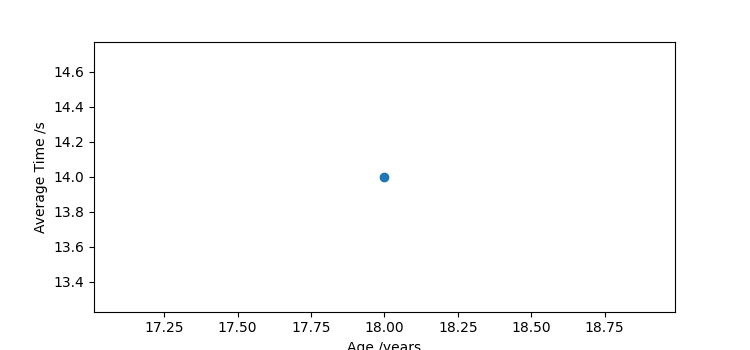
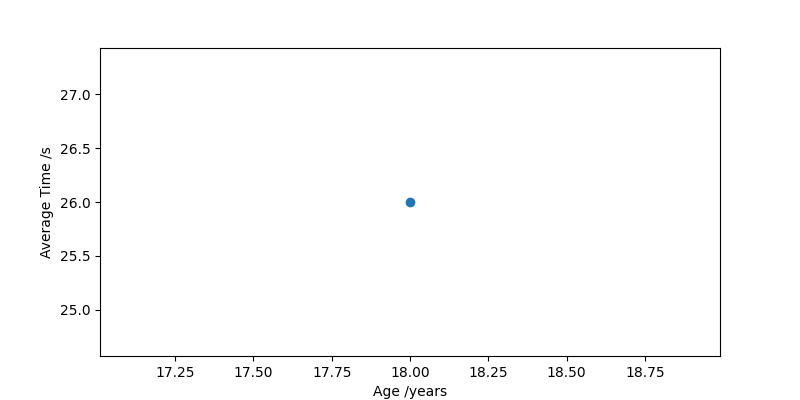
Fully Finished Project with one database profile left in.

diff --git a/Scatter.py b/Scatter.py
@@ -12,6 +12,7 @@ from settings import *
 pg.init()
 pg.display.set_caption('Memory Processing Tool')
 display = pg.display.set_mode((RES))
+image_surface = pg.display.set_mode((800, 400))
 background = pg.Surface((RES))
 display.fill((STAND_BACK_COL))
 
@@ -29,11 +30,13 @@ class Graph:
         self.results_output = 0
         self.age = []
         self.time = []
+        self.scatter_image = pg.image.load('Images\\age_time.png')
+        image_surface.blit(self.scatter_image, (0, 0))
         
         # ------GUI:------
         # Panels: 
         self.graph_panel = pg_gui.elements.UIPanel(
-            pg.Rect((10, 10), (790, 380)), 
+            pg.Rect((10, 10), (780, 380)), 
             1, 
             manager,
             object_id = ObjectID(
@@ -42,7 +45,7 @@ class Graph:
                 )
             )
         self.panel = pg_gui.elements.UIPanel(
-            pg.Rect((10, 400), (790, 380)), 
+            pg.Rect((10, 400), (780, 380)), 
             1, 
             manager,
             object_id = ObjectID(
@@ -65,20 +68,19 @@ class Graph:
             self.panel
             )
         self.quit_but.hide()
-        self.image_but = pg_gui.elements.UIButton(
-            pg.Rect((0, 0), (790, 380)), 
-            '', 
-            manager, 
-            self.graph_panel,
-            object_id = ObjectID(
-                object_id = '#image_but'
-                )
-            )
+
+        # Images:
+        self.image = pg_gui.elements.UIImage(
+            pg.Rect((0, 0), (770, 380)),
+            image_surface,
+            manager,
+            container = self.graph_panel
+        )
         
         # Text Boxes:
         self.scatter_text_box = pg_gui.elements.UITextBox(
             TEXT_ARRAY[4], 
-            pg.Rect((10, 140), (760, 220)), 
+            pg.Rect((10, 140), (750, 220)), 
             manager, 
             starting_height = 1, 
             container = self.panel, 
@@ -118,11 +120,11 @@ class Graph:
             self.text = "Very Low Risk, High Processing Speed"
             self.results_output = 0
             pg_gui.elements.UILabel.set_text(self.age_time_label, self.text) # The label is changed for the user to read depending on thier results.
-        if time_quantiles[1] <= user_avg_time < time_quantiles[2]:
+        elif time_quantiles[1] <= user_avg_time < time_quantiles[2]:
             self.text = "Low Risk, Average Processing Speed"
             self.results_output = 1
             pg_gui.elements.UILabel.set_text(self.age_time_label, self.text)
-        if time_quantiles[2] <= user_avg_time < time_quantiles[3]:
+        elif time_quantiles[2] <= user_avg_time < time_quantiles[3]:
             self.text = "Slow Processing Speed, "
             if age_quantiles[2] <= user_age <= age_quantiles[4]:
                 self.text = self.text + "Average Risk"
@@ -131,11 +133,13 @@ class Graph:
                 self.text = self.text + "Low Risk"
                 self.results_output = 3
             pg_gui.elements.UILabel.set_text(self.age_time_label, self.text)
-        if time_quantiles[3] <= user_avg_time < time_quantiles[4]:
+        else:
             self.text = "Very Slow Processing Speed, "
             if age_quantiles[2] <= user_age <= age_quantiles[4]:
                 self.text = self.text + "High Risk"
                 self.results_output = 4
+            elif user_age > age_quantiles[4]:
+                self.text = self.text + "High Risk"
             else:
                 self.text = self.text + "Above Average Risk"
                 self.results_output = 5
@@ -148,10 +152,16 @@ class Graph:
         plt.xlabel("Age /years")
         plt.ylabel("Average Time /s")
         scatter = plt.gcf()
-        scatter.set_size_inches(7.5, 3.5)
+        scatter.set_size_inches(8, 4)
         plt.savefig(('Images/{}'.format(name)), dpi = 100)
         plt.close()
    
+    def display_image(self):
+        self.scatter_image = pg.image.load('Images\\age_time.png')
+        image_surface.blit(self.scatter_image, (0, 0))
+        self.image.set_image(self.scatter_image)
+        pg.display.flip()
+
     def but_pressed(self, but): # Function: Checks if a specific button has been pressed and does the following action if one has.
         if but == self.start_but:
             self.run() # Runs the function run() which will plot and save a graph as well as giving the user a prompt on-screen depending on thier performance.
@@ -166,6 +176,7 @@ class Graph:
     def run(self): # Function: Runs the functions time_age() and plot() when active.
         self.time_age()
         self.plot()
+        self.display_image()
     
 but = Graph()
 

diff --git a/Login_and_Register.py b/Login_and_Register.py
@@ -144,7 +144,7 @@ class Login:
             )
         self.text = ""
         self.error_Label = pg_gui.elements.UILabel(
-            pg.Rect((140, 550), (500, 50)), 
+            pg.Rect((0, 600), (780, 50)), 
             self.text, 
             manager,
             container = self.reg_panel, 
@@ -234,22 +234,36 @@ class Login:
                 self.age = 131
             
     def but(self, process): # Checks if a button is pressed and carries out the appropriate response.
-        if process == self.reg_but: # Registers user information to the database if the appropriate conditions are met then: Starts the Maze game loop (Main.py); Starts Scatter graph file (Scatter.py)
+        if process == self.reg_but: # Registers user information to the database if error value remains false: Starts the Maze game loop (Main.py); Starts Scatter graph file (Scatter.py)
             self.text = ""
-            if self.reg_username not in self.DB_username:
-                if (" " not in self.reg_username) and (" " not in self.reg_password):
-                    if self.age <= 130:
-                        self.username = self.reg_username
-                        self.password = self.reg_password
-                        self.reg_disabled = True
-                        self.reg_panel.hide()
-                        self.preview_panel.show()
-                    else:
-                        self.text = "Age too large or is not a number"
-                else:
-                    self.text = "Spaces found in username or password."
+            text = ""
+            check_array = []
+            error = False
+            if self.reg_username in self.DB_username:
+                check_array.append("Username already in use.")
+                error = True
+            if (len(self.reg_username) > 30) or (len(self.reg_password) > 30):
+                check_array.append("Username or password longer than 30 characters.")
+                error = True  
+            if (" " in self.reg_username) or (" " in self.reg_password):
+                check_array.append("Spaces found in username or password.")
+                error = True  
+            if not self.age <= 130:
+                check_array.append("Age too large or is not a number")
+                error = True
+
+            if error == True:
+                for errors in check_array:
+                    text += (errors + " ")
+                self.text = text
             else:
-                self.text = "Username already in use."
+                text = ""
+                self.text = text
+                self.username = self.reg_username
+                self.password = self.reg_password
+                self.reg_disabled = True
+                self.reg_panel.hide()
+                self.preview_panel.show()
             pg_gui.elements.UILabel.set_text(self.error_Label, self.text)
         if process == self.preview_but:
             if self.reg_disabled == True:
@@ -304,7 +318,7 @@ class Login:
 
     def reg(self, connection): # Function: runs a database.py function add_user() to submit the username, password and age values into the database as a new user.
         null = 0
-        Database.add_user(self.connection, self.username, self.password, self.age, null, null, null, null, null)
+        Database.add_user(self.connection, self.username, self.password, self.age, null, null, null, null)
     
 process = Login(connection)
 

diff --git a/Database.py b/Database.py
@@ -1,9 +1,9 @@
 import sqlite3
 
 # ------SQL Queries:------
-CREATE_USER_TABLE = "CREATE TABLE IF NOT EXISTS users (id INTEGER PRIMARY KEY, username TEXT, password TEXT, age INTEGER, t_1 INTEGER, t_2 INTEGER, t_3 INTEGER, t_avg INTEGER, condition INTEGER);"
+CREATE_USER_TABLE = "CREATE TABLE IF NOT EXISTS users (id INTEGER PRIMARY KEY, username VARCHAR(30), password VARCHAR(30), age INTEGER, t_1 INTEGER, t_2 INTEGER, t_3 INTEGER, t_avg INTEGER);"
 
-INSERT_USER = "INSERT INTO users (username, password, age, t_1, t_2, t_3, t_avg, condition) VALUES (?, ?, ?, ?, ?, ?, ?, ?);"
+INSERT_USER = "INSERT INTO users (username, password, age, t_1, t_2, t_3, t_avg) VALUES (?, ?, ?, ?, ?, ?, ?);"
 
 GET_ALL_USERS = "SELECT * FROM users;"
 GET_ALL_AGE_Y_TIME = "SELECT age, t_avg FROM users;"
@@ -19,9 +19,9 @@ def create_tables(connection): # Function: Creates a database table called users
     with connection:
         connection.execute(CREATE_USER_TABLE)
         
-def add_user(connection, username, password, age, t_1, t_2, t_3, t_avg, condition): # Function: Adds a user to the database with the given values.
+def add_user(connection, username, password, age, t_1, t_2, t_3, t_avg): # Function: Adds a user to the database with the given values.
     with connection:
-        connection.execute(INSERT_USER, (username, password, age, t_1, t_2, t_3, t_avg, condition))
+        connection.execute(INSERT_USER, (username, password, age, t_1, t_2, t_3, t_avg))
 
 def get_all_users(connection): # Function: returns all users and thier data from the database.
     with connection:

diff --git a/player.py b/player.py
@@ -42,7 +42,6 @@ class Player:
         return (x, y) not in self.main.map.mapfinal
     
     def wall_collision(self, x_change, y_change): # Function: Adds the movement values to x and y, checks if player has hit the finish, checks if a player has hit the wall and updates the x and y values accordingly.
-
         if self.wall_check(int(self.x + x_change), int(self.y)):
             self.x += x_change
         elif self.finish_check((self.x), (self.y)) == [int(self.x + x_change), int(self.y)]:
